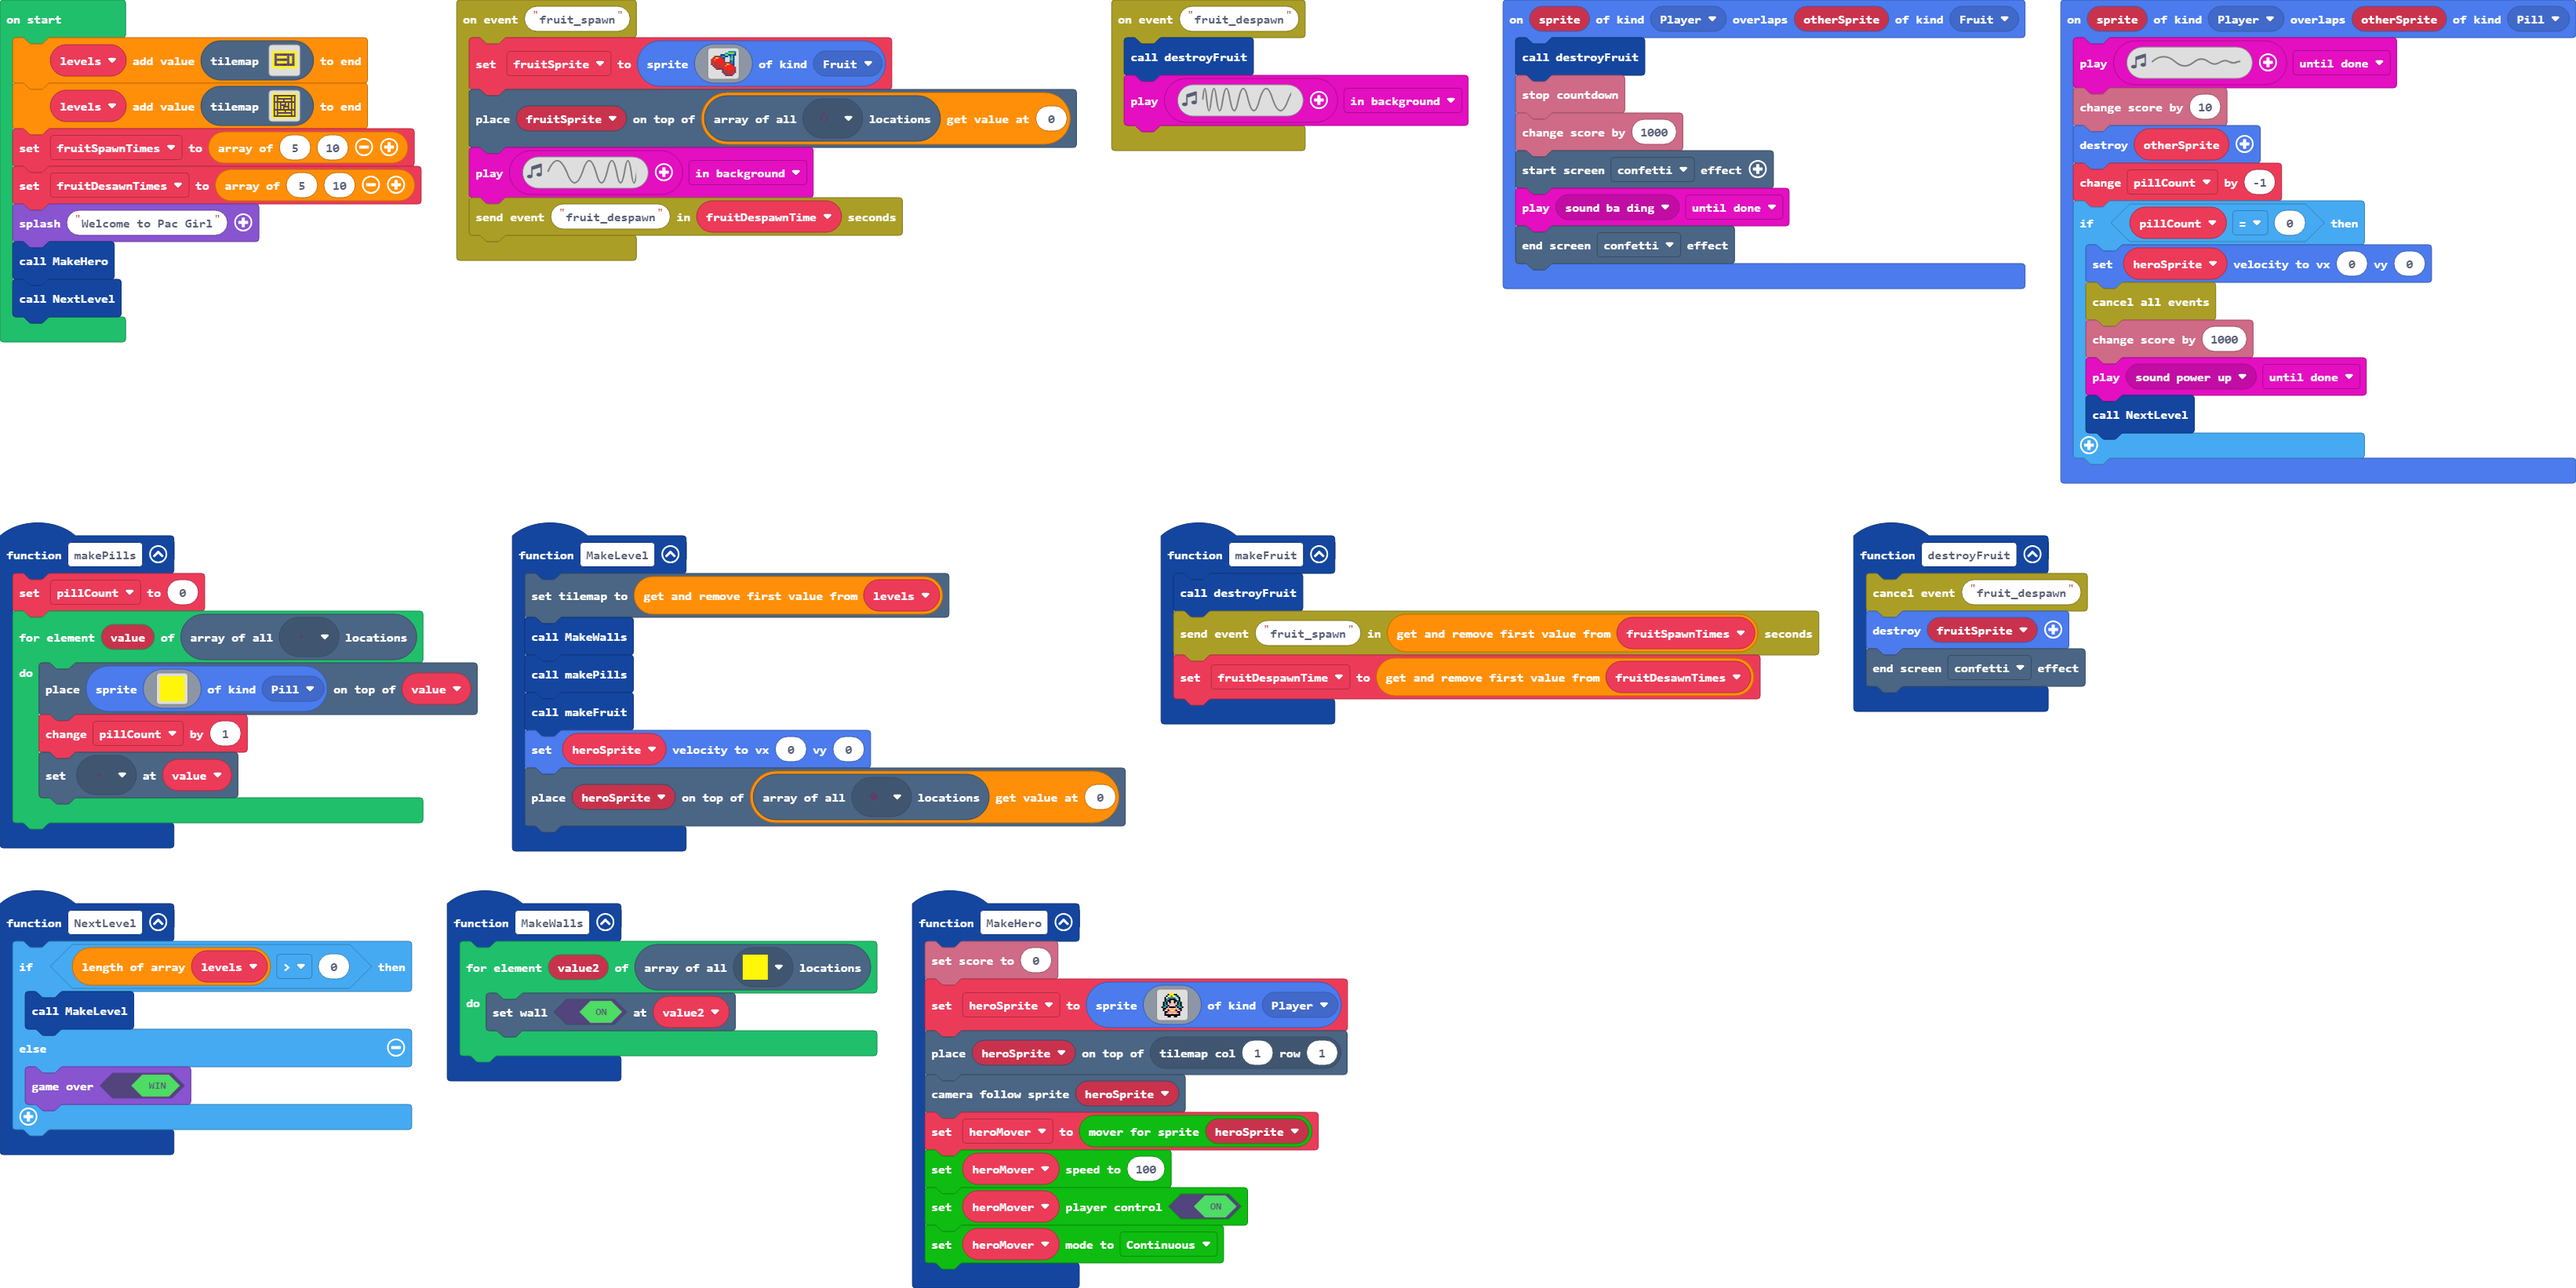
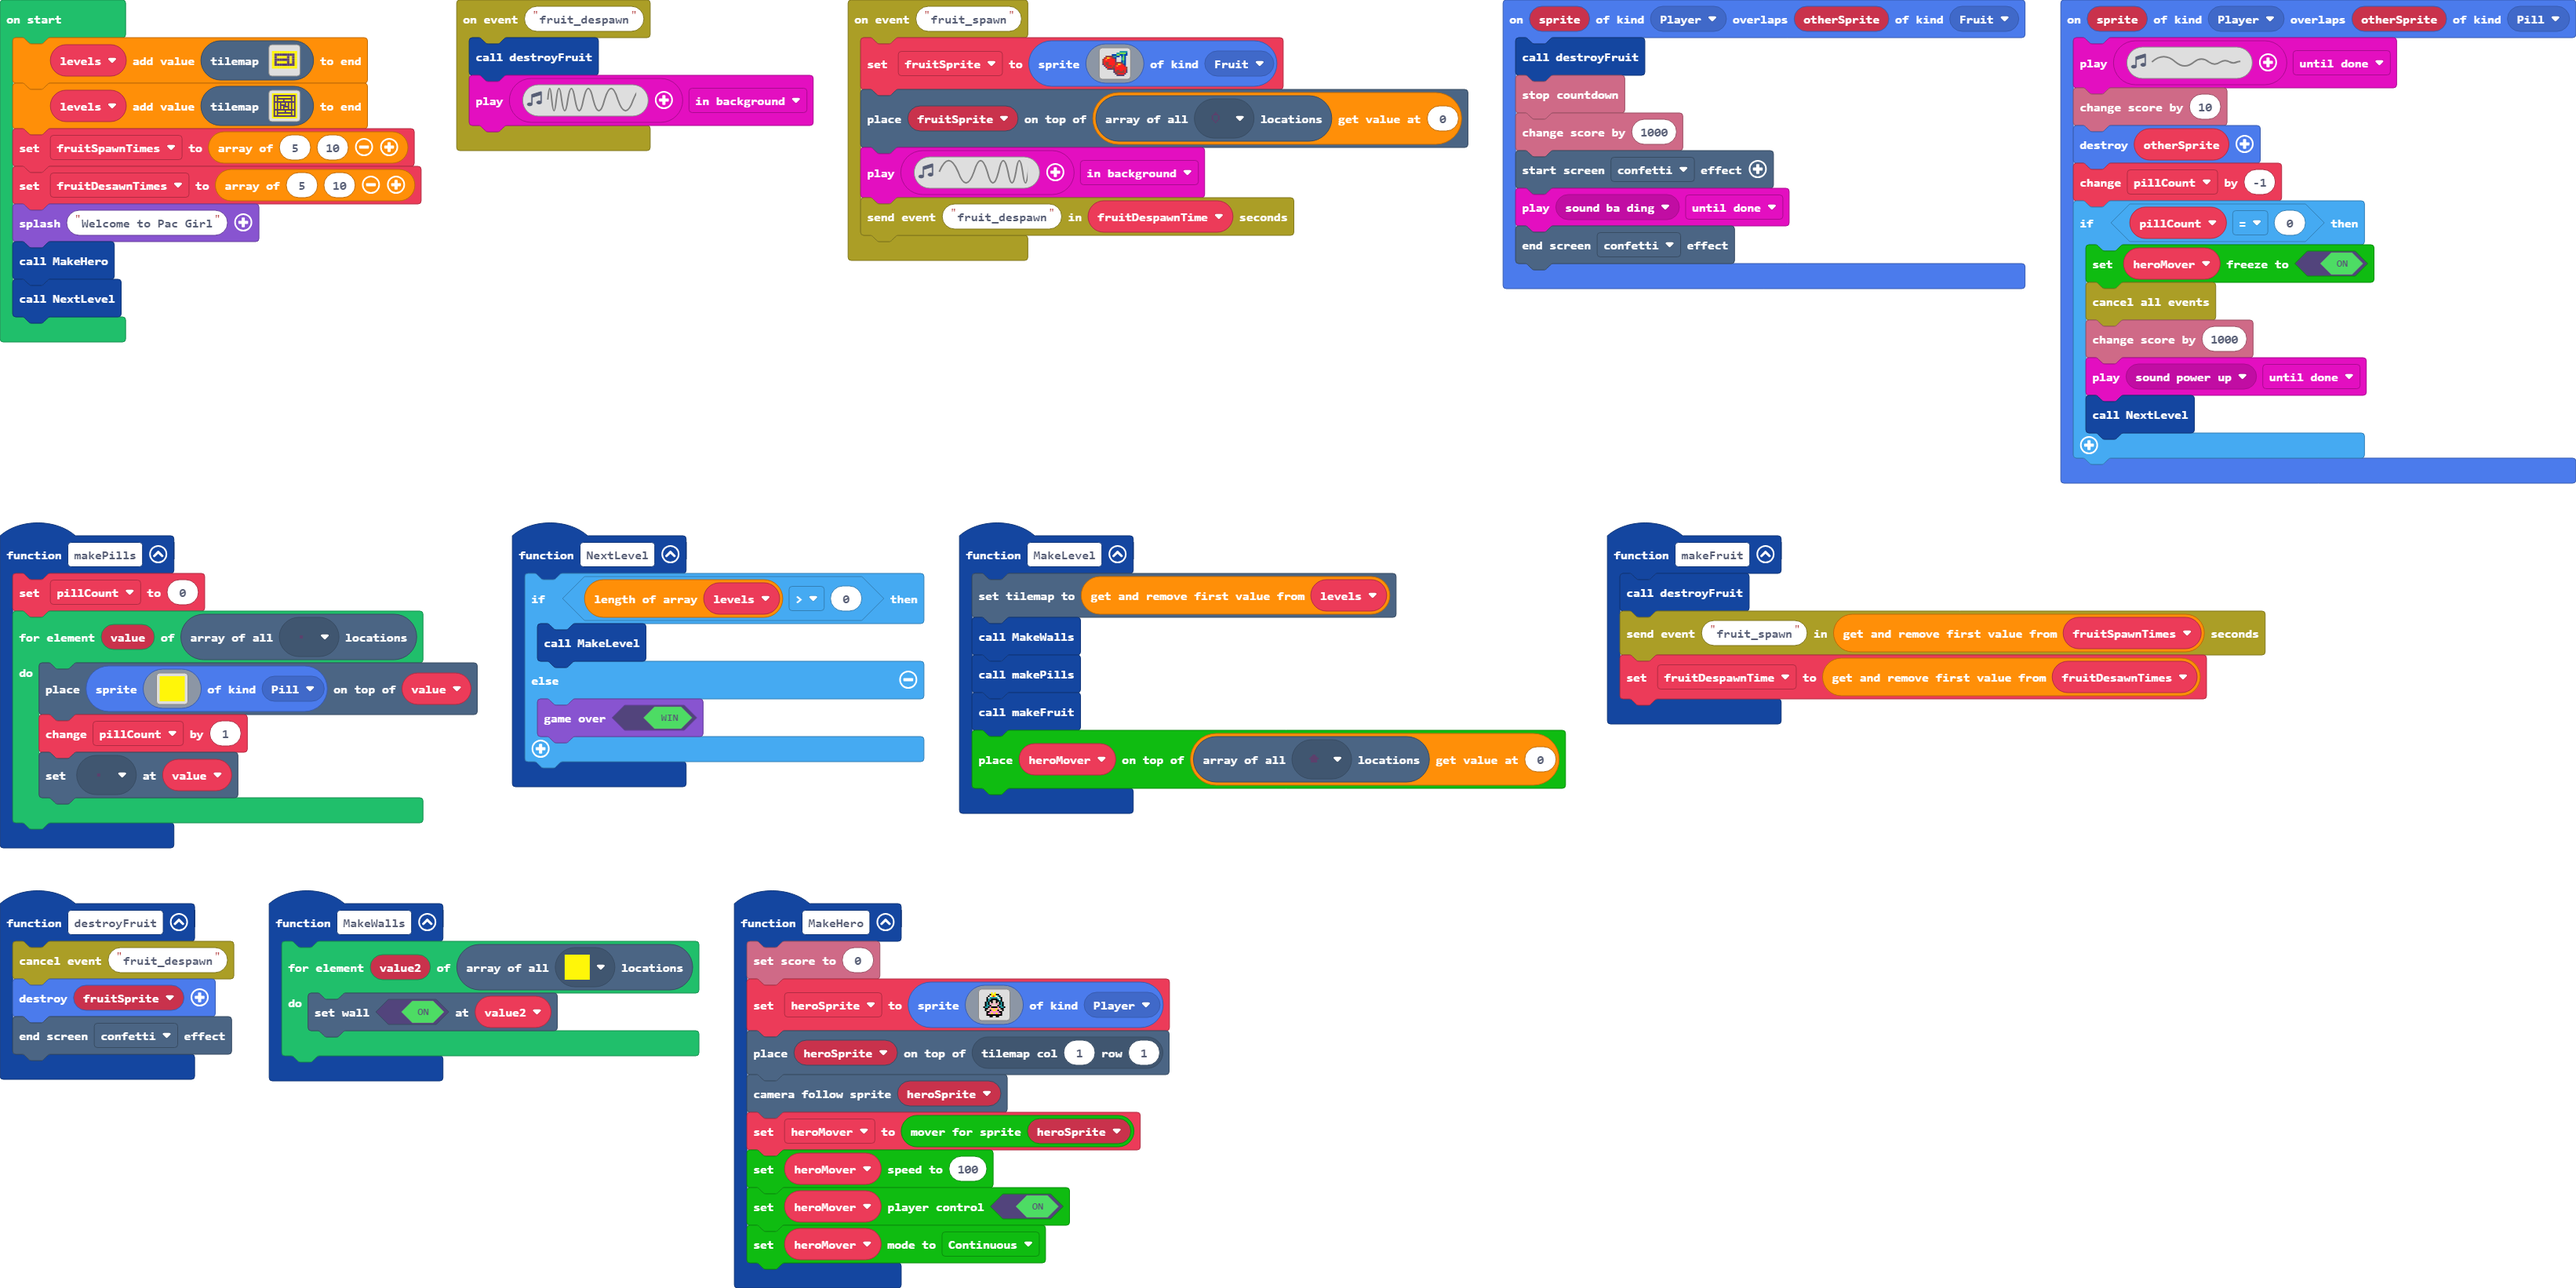
Latest pxt-arcade-gridmove

Changed region(s): [[0.0, 0.4038, 0.9007, 1.0], [0.1553, 0.0, 0.5901, 0.2174], [0.8076, 0.1864, 0.9629, 0.2174]]

diff --git a/tilemap.g.ts b/tilemap.g.ts
@@ -80,6 +80,25 @@ namespace myTiles {
 . . . . . . . . . . . . . . . . 
 . . . . . . . . . . . . . . . . 
 `, [myTiles.transparency16], TileScale.Sixteen);
+            case "level4":
+            case "level4":return tiles.createTilemap(hex`1000100000000000000000000000000000000000000000000000000000000000000000000000000000000000000000000000000000000000000000000000000000000000000000000000000000000000000000000000000000000000000000000000000000000000000000000000000000000000000000000000000000000000000000000000000000000000000000000000000000000000000000000000000000000000000000000000000000000000000000000000000000000000000000000000000000000000000000000000000000000000000000000000000000000000000000000000000000000000000000000000000000000000000000000000000000000000`, img`
+. . . . . . . . . . . . . . . . 
+. . . . . . . . . . . . . . . . 
+. . . . . . . . . . . . . . . . 
+. . . . . . . . . . . . . . . . 
+. . . . . . . . . . . . . . . . 
+. . . . . . . . . . . . . . . . 
+. . . . . . . . . . . . . . . . 
+. . . . . . . . . . . . . . . . 
+. . . . . . . . . . . . . . . . 
+. . . . . . . . . . . . . . . . 
+. . . . . . . . . . . . . . . . 
+. . . . . . . . . . . . . . . . 
+. . . . . . . . . . . . . . . . 
+. . . . . . . . . . . . . . . . 
+. . . . . . . . . . . . . . . . 
+. . . . . . . . . . . . . . . . 
+`, [myTiles.transparency16], TileScale.Sixteen);
         }
         return null;
     })

diff --git a/main.ts b/main.ts
@@ -44,8 +44,7 @@ function MakeLevel () {
     MakeWalls()
     makePills()
     makeFruit()
-    heroSprite.setVelocity(0, 0)
-    tiles.placeOnTile(heroSprite, tiles.getTilesByType(assets.tile`floorHome`)[0])
+    heroMover.place(tiles.getTilesByType(assets.tile`floorHome`)[0])
 }
 function MakeWalls () {
     for (let value2 of tiles.getTilesByType(assets.tile`wall`)) {
@@ -58,7 +57,7 @@ sprites.onOverlap(SpriteKind.Player, SpriteKind.Pill, function (sprite, otherSpr
     sprites.destroy(otherSprite)
     pillCount += -1
     if (pillCount == 0) {
-        heroSprite.setVelocity(0, 0)
+        heroMover.setFreeze(true)
         events.cancelAllEvents()
         info.changeScoreBy(1000)
         music.play(music.melodyPlayable(music.powerUp), music.PlaybackMode.UntilDone)
@@ -115,8 +114,8 @@ events.onEvent("fruit_spawn", function () {
     music.play(music.createSoundEffect(WaveShape.Sine, 1188, 5000, 255, 255, 250, SoundExpressionEffect.None, InterpolationCurve.Linear), music.PlaybackMode.InBackground)
     events.sendEvent("fruit_despawn", fruitDespawnTime)
 })
-let heroMover: gridmove.Mover = null
 let heroSprite: Sprite = null
+let heroMover: gridmove.Mover = null
 let fruitDespawnTime = 0
 let fruitSprite: Sprite = null
 let pillCount = 0
